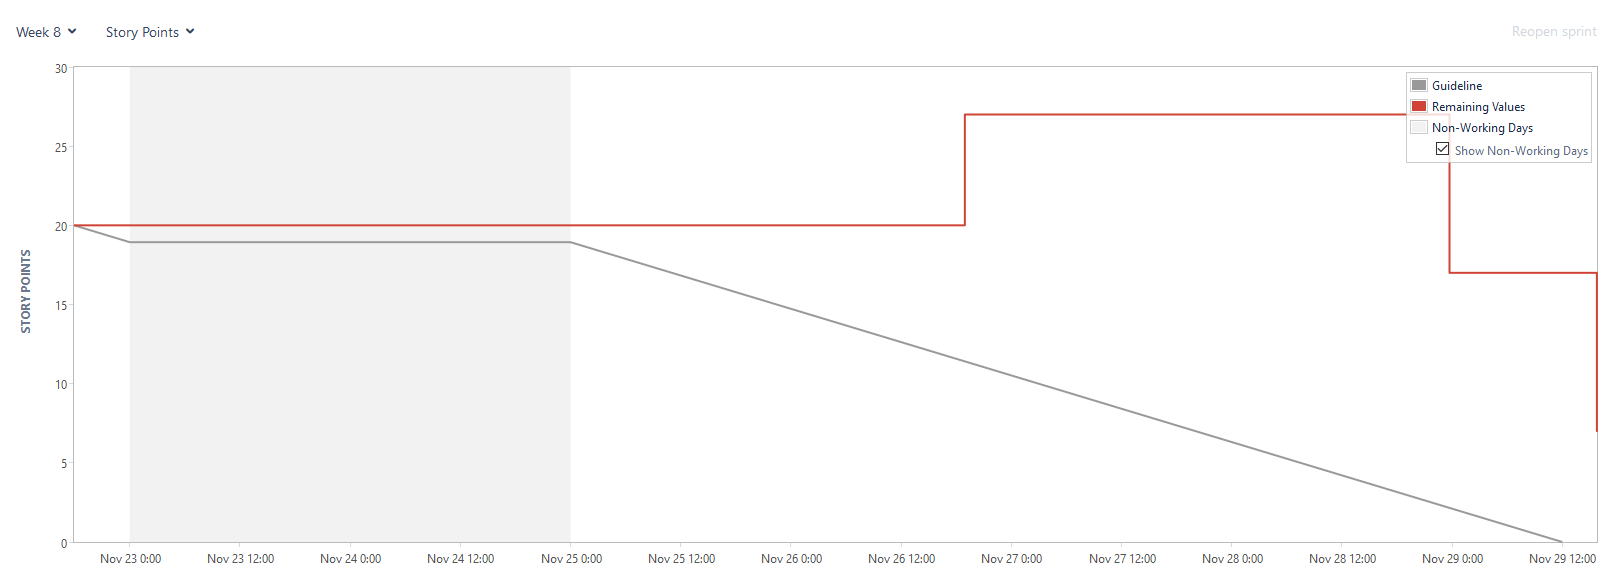
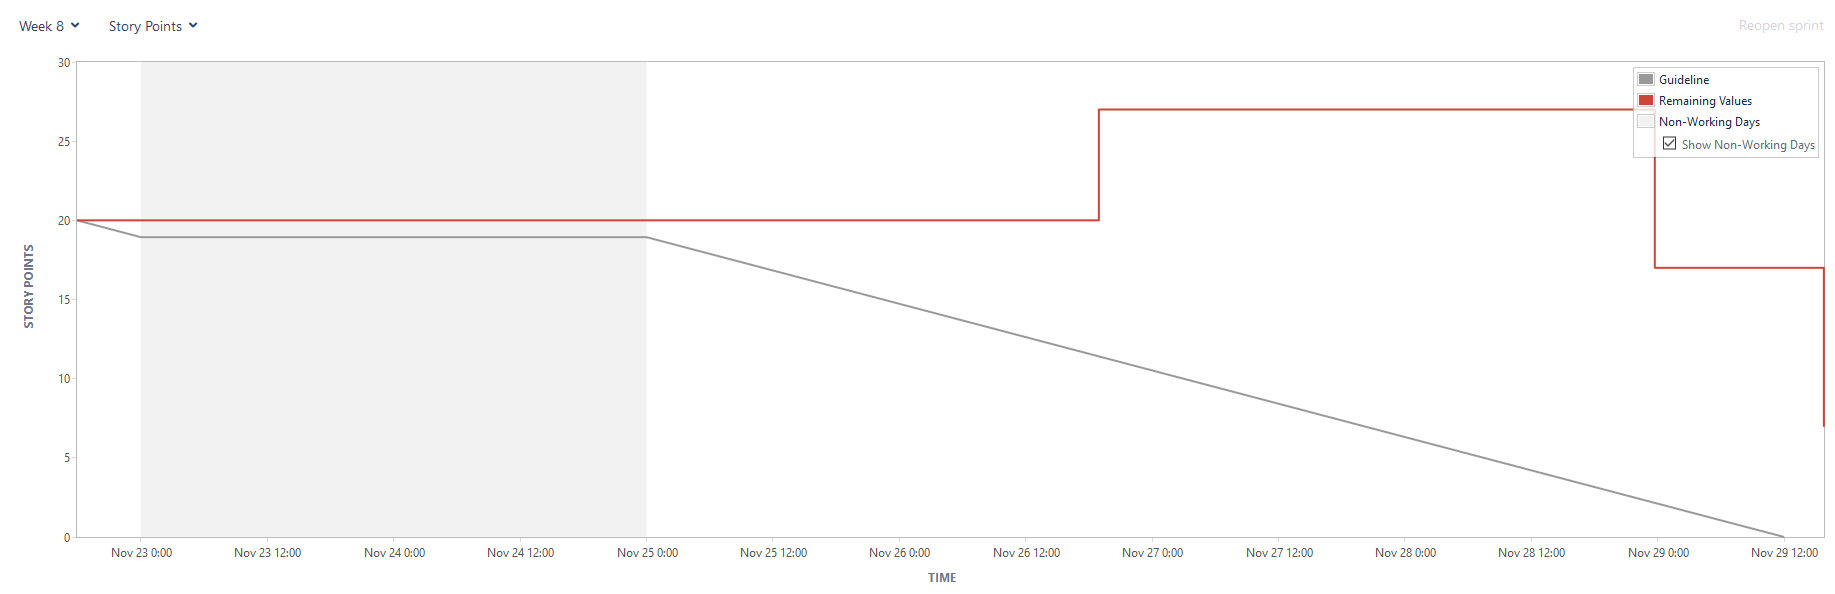
Adding images to the project management log.

diff --git a/Final_Report/Project Management Log.md b/Final_Report/Project Management Log.md
@@ -14,3 +14,35 @@ One issue in particular is that the program in some places has been built using 
 
 Another issue that we have had regards the use of jira. During the module, we were learning how to effectively use jira to organise ourselves and some mistakes were made along the way. This means that some of our burndown charts do not accurately reflect the amount of work we have actually completed. 
 
+<br/><br/>
+## Sprint Burndown Charts
+
+### Week 8
+
+![Week 8 Image](burndown_images/week_8.png)
+
+## Weeks 17-19
+![Week 17-19 Image](burndown_images/week17-19.png)
+
+## Week 20
+![Week 20 Image](burndown_images/week_20.png)
+
+## Week 21
+![Week 21 Image](burndown_images/week_21.png)
+
+<br/><br/>
+
+## Burndown-Charts Discussion
+
+### Week 8 
+In week 8, not much work was set as it was straight after the hand in of the MVP work, and we did not have a solid plan of how to continue with the program. 
+
+Unfortunately, we did not reach zero story points by the end of the sprint and at some point the number of story points actually increased due to a task being added after the sprint had started. 
+
+Also some poorly written tasks and stories meant that some of the story points could not have been completed. 
+
+The graph also follows a general trend that most work is completed towards the end of the week. 
+
+## Weeks 17-19
+
+
